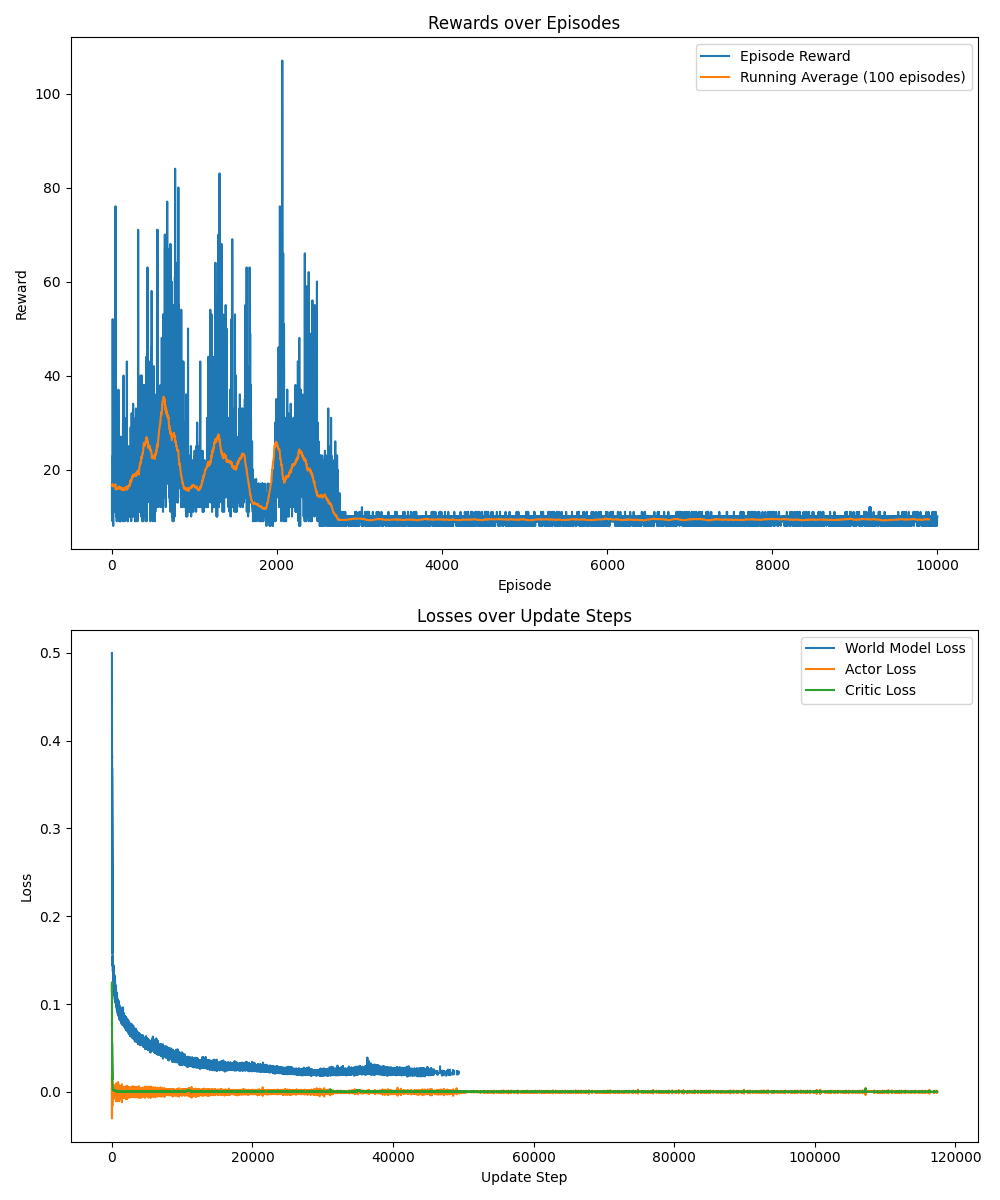
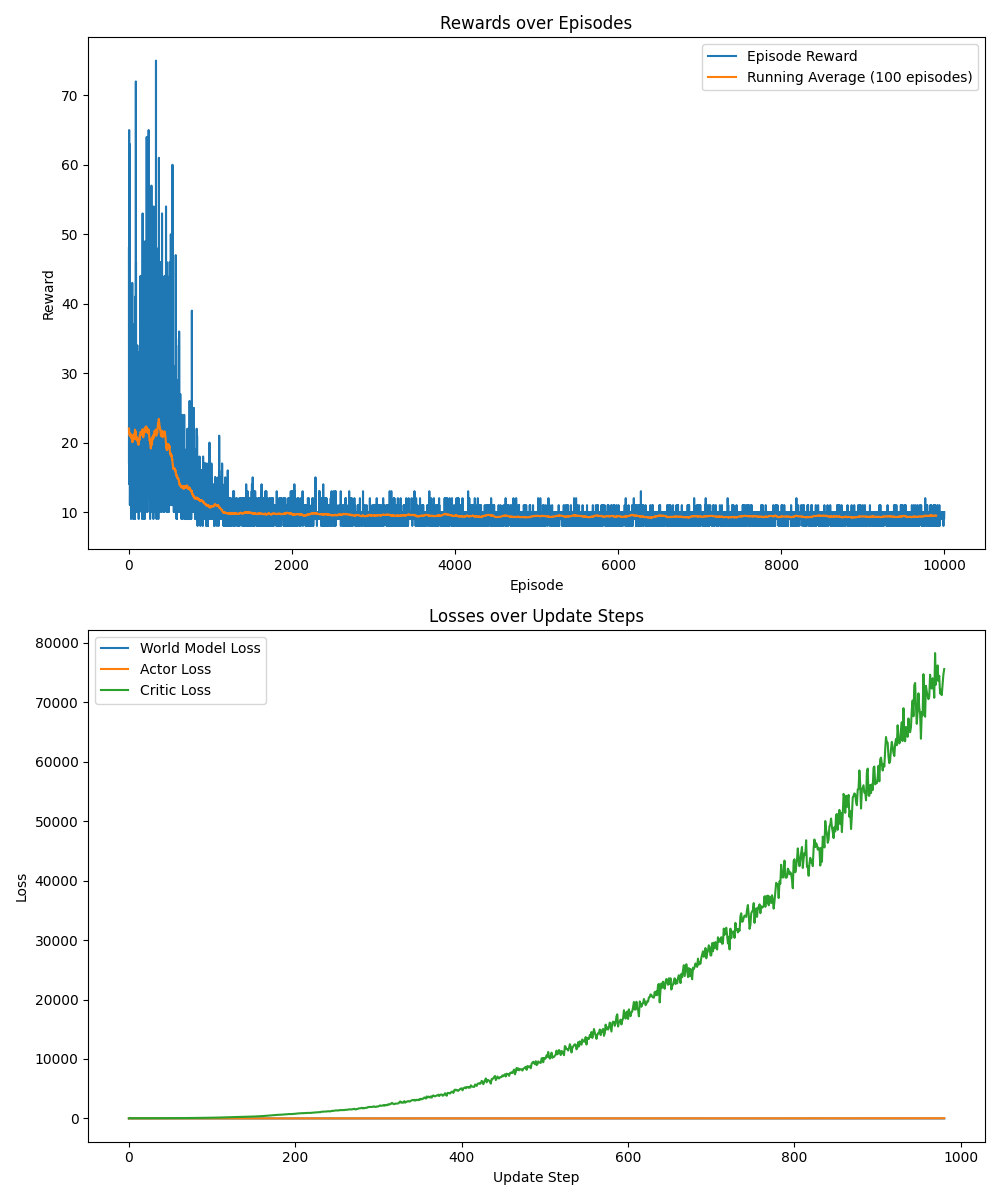
adding simple tests, fixing model updates

diff --git a/dreamer.py b/dreamer.py
@@ -54,19 +54,34 @@ class DreamerV3:
             self.obs_normalizer = ObsNormalizer(obs_shape)
 
     def init_weights(self, m):
-        if isinstance(m, (nn.Linear, nn.Conv2d, nn.ConvTranspose2d)):
-            fan_in = m.weight.shape[1]
-            fan_out = m.weight.shape[0]
-            limit = np.sqrt(6 / (fan_in + fan_out))
-            nn.init.uniform_(m.weight, -limit, limit)
-            if m.bias is not None:
-                nn.init.zeros_(m.bias)
-        elif isinstance(m, nn.GRUCell):
-            for name, param in m.named_parameters():
-                if 'weight' in name:
-                    nn.init.orthogonal_(param)
-                elif 'bias' in name:
-                    nn.init.zeros_(param)
+
+        if isinstance(m, nn.Linear):
+            in_num = m.in_features
+            out_num = m.out_features
+            denoms = (in_num + out_num) / 2.0
+            scale = 1.0 / denoms
+            std = np.sqrt(scale) / 0.87962566103423978
+            nn.init.trunc_normal_(
+                m.weight.data, mean=0.0, std=std, a=-2.0 * std, b=2.0 * std
+            )
+            if hasattr(m.bias, "data"):
+                m.bias.data.fill_(0.0)
+        elif isinstance(m, nn.Conv2d) or isinstance(m, nn.ConvTranspose2d):
+            space = m.kernel_size[0] * m.kernel_size[1]
+            in_num = space * m.in_channels
+            out_num = space * m.out_channels
+            denoms = (in_num + out_num) / 2.0
+            scale = 1.0 / denoms
+            std = np.sqrt(scale) / 0.87962566103423978
+            nn.init.trunc_normal_(
+                m.weight.data, mean=0.0, std=std, a=-2.0 * std, b=2.0 * std
+            )
+            if hasattr(m.bias, "data"):
+                m.bias.data.fill_(0.0)
+        elif isinstance(m, nn.LayerNorm):
+            m.weight.data.fill_(1.0)
+            if hasattr(m.bias, "data"):
+                m.bias.data.fill_(0.0)
 
     def reset_hidden_states(self):
         self.h = torch.zeros(1, 1, self.config.hidden_dim, device=device)
@@ -79,11 +94,12 @@ class DreamerV3:
         except ValueError:
             return  # Not enough data to train
 
-        obs_seq, act_seq, rew_seq, _, _ = batch
+        obs_seq, act_seq, rew_seq, next_obs_seq, done_seq = batch
 
         outputs = self.world_model(obs_seq, act_seq, tau=self.temperature)
         recon_obs = outputs["recon_obs"]
         pred_reward = outputs["pred_reward"]
+        pred_discount = outputs["pred_discount"]
         kl_loss = outputs["kl_loss"]
 
         # Reconstruction loss
@@ -100,8 +116,13 @@ class DreamerV3:
         reward_loss = F.mse_loss(pred_reward, symlog(rew_seq), reduction='none')
         reward_loss = reward_loss.mean()
 
+        # Discount prediction loss
+        discount_target = (1.0 - done_seq.float()) * self.config.lambda_
+        discount_loss = F.binary_cross_entropy(pred_discount, discount_target, reduction='none')
+        discount_loss = discount_loss.mean()
+
         # Total loss
-        loss_world = recon_loss + reward_loss + self.config.kl_scale * kl_loss
+        loss_world = recon_loss + reward_loss + discount_loss + self.config.kl_scale * kl_loss
 
         self.world_optimizer.zero_grad()
         loss_world.backward()
@@ -120,13 +141,13 @@ class DreamerV3:
         obs_seq, act_seq, _, _, _ = batch
         obs = obs_seq[:, 0]
 
-        # Initialize hidden state with zeros
-        imag_h = torch.zeros(1, self.config.batch_size, self.config.hidden_dim, device=device)
-
         # Encode observation
         obs_encoded = self.world_model.obs_encoder(obs)
 
-        # Initialize imag_s with posterior sample from initial obs
+        # Initialize hidden state
+        imag_h = torch.zeros(1, self.config.batch_size, self.config.hidden_dim, device=device)
+
+        # Compute initial posterior state
         posterior_input = torch.cat([imag_h.squeeze(0), obs_encoded], dim=-1)
         posterior_logits = self.world_model.posterior_net(posterior_input)
         posterior_logits = posterior_logits.view(
@@ -136,6 +157,7 @@ class DreamerV3:
 
         imag_states = []
         imag_rewards = []
+        imag_discounts = []
         imag_action_log_probs = []
 
         for _ in range(self.config.imagination_horizon):
@@ -149,7 +171,7 @@ class DreamerV3:
 
             # Update imag_h and imag_s using the world model
             act_onehot = F.one_hot(imag_action, num_classes=self.act_dim).float()
-            rnn_input = torch.cat([imag_s.detach(), act_onehot], dim=-1)
+            rnn_input = torch.cat([imag_s, act_onehot], dim=-1)
             rnn_input = rnn_input.unsqueeze(1)  # Shape: [batch_size, 1, input_size]
 
             # RNN step
@@ -162,32 +184,42 @@ class DreamerV3:
             )
             imag_s = gumbel_softmax(prior_logits, tau=self.temperature, hard=False).view(self.config.batch_size, -1)
 
-            # Predict reward
+            # Predict reward and discount
             decoder_input = torch.cat([imag_h.squeeze(0), imag_s], dim=-1)
             pred_reward = self.world_model.reward_decoder(decoder_input)
-            pred_reward = symexp(pred_reward.squeeze(-1))
+            pred_reward = pred_reward.squeeze(-1)
             imag_rewards.append(pred_reward)
 
+            pred_discount = self.world_model.discount_decoder(decoder_input)
+            pred_discount = pred_discount.squeeze(-1)
+            imag_discounts.append(pred_discount * self.config.lambda_)
+
         # Convert lists to tensors
-        imag_states = torch.stack(imag_states)
-        imag_rewards = torch.stack(imag_rewards)
-        imag_action_log_probs = torch.stack(imag_action_log_probs)
+        imag_states = torch.stack(imag_states)  # Shape: [imagination_horizon, batch_size, hidden_dim]
+        imag_rewards = torch.stack(imag_rewards)  # Shape: [imagination_horizon, batch_size]
+        imag_discounts = torch.stack(imag_discounts)  # Shape: [imagination_horizon, batch_size]
+        imag_action_log_probs = torch.stack(imag_action_log_probs)  # Shape: [imagination_horizon, batch_size]
 
         # Reshape imag_states for critic input
         imag_states_flat = imag_states.view(-1, self.config.hidden_dim)
 
         # Get value estimates for critic update (detach to prevent backprop through the world model)
         value_pred = self.critic(imag_states_flat.detach()).view(self.config.imagination_horizon, self.config.batch_size)
+        self.q_values = value_pred[0, :].detach().cpu().numpy()  # Save for logging
 
-        # Calculate lambda-returns
-        lambda_returns = torch.zeros_like(imag_rewards)
-        last_value = value_pred[-1]
-        for t in reversed(range(self.config.imagination_horizon)):
-            if t == self.config.imagination_horizon - 1:
-                bootstrap = last_value
-            else:
-                bootstrap = (1 - self.config.lambda_) * value_pred[t + 1] + self.config.lambda_ * lambda_returns[t + 1]
-            lambda_returns[t] = imag_rewards[t] + self.config.gamma * bootstrap
+        # Bootstrap value is the last value prediction
+        bootstrap = value_pred[-1]
+
+        # Compute lambda returns
+        lambda_returns = self.lambda_return(
+            reward=imag_rewards,
+            value=value_pred,
+            pcont=imag_discounts,
+            bootstrap=bootstrap,
+            lambda_=self.config.lambda_,
+        )
+
+        self.returns = lambda_returns[0, :].detach().cpu().numpy()  # Save for logging
 
         # Critic update
         value_target = lambda_returns.detach()
@@ -216,10 +248,28 @@ class DreamerV3:
         torch.nn.utils.clip_grad_norm_(self.actor.parameters(), self.config.max_grad_norm)
         self.actor_optimizer.step()
 
-        # Update target critic
+        # Update target critic using soft update
         self._soft_update(self.target_critic, self.critic)
 
         return actor_loss.item(), critic_loss.item()
+
+    def lambda_return(self, reward, value, pcont, bootstrap, lambda_):
+        next_values = torch.cat([value[1:], bootstrap[None]], 0)
+        inputs = reward + pcont * next_values * (1 - lambda_)
+        returns = self._static_scan(
+            lambda agg, cur0, cur1: cur0 + cur1 * lambda_ * agg, (inputs, pcont), bootstrap
+        )
+        return returns
+
+    def _static_scan(self, fn, inputs, start):
+        last = start
+        outputs = []
+        for index in reversed(range(inputs[0].shape[0])):
+            inp = [input[index] for input in inputs]
+            last = fn(last, *inp)
+            outputs.append(last)
+        outputs = torch.stack(outputs[::-1], dim=0)
+        return outputs
 
     def _soft_update(self, target, source, tau=None):
         if tau is None:

diff --git a/tests.py b/tests.py
@@ -1,0 +1,61 @@
+import debugrl as drl 
+from dreamer import DreamerV3
+from tqdm import tqdm
+
+def test_value_estimation(config):
+    env = drl.OneActionZeroObsEnv()
+    agent = DreamerV3(env.observation_space.shape, env.action_space.n, False, config)
+
+    with tqdm(total=config.episodes, desc="Testing Value Estimation", unit="ep") as pbar:
+        for _ in range(config.episodes):
+            obs = env.reset()
+            agent.act(obs, reset=True) 
+            done = False
+            while not done:
+                action = agent.act(obs)
+                next_obs, reward, done, _ = env.step(action)
+                agent.store_transition(obs, action, reward, next_obs, done)
+                obs = next_obs
+
+                if len(agent.replay_buffer) > config.min_buffer_size:
+                    losses = agent.train(num_updates=1)
+                    pbar.set_postfix({"Avg. Q Value": f"{agent.q_values[-1].mean():.2f}", 
+                                      "Critic Loss": f"{losses['critic_loss']:.2f}"})
+                pbar.update(1)
+
+    print(agent.q_values[-1])
+    print(agent.returns[-1])
+
+if __name__ == "__main__":
+    import argparse
+    parser = argparse.ArgumentParser()
+    parser.add_argument("--episodes", type=int, default=1000)
+    parser.add_argument("--train_horizon", type=int, default=1)
+    parser.add_argument("--latent_dim", type=int, default=32)
+    parser.add_argument("--latent_categories", type=int, default=32)
+    parser.add_argument("--hidden_dim", type=int, default=512)
+    parser.add_argument("--actor_lr", type=float, default=1e-3)
+    parser.add_argument("--critic_lr", type=float, default=1e-3)
+    parser.add_argument("--world_lr", type=float, default=1e-3)
+    parser.add_argument("--gamma", type=float, default=0.99)
+    parser.add_argument("--imagination_horizon", type=int, default=15)
+    parser.add_argument("--free_nats", type=float, default=3.0)
+    parser.add_argument("--batch_size", type=int, default=32)
+    parser.add_argument("--seq_len", type=int, default=50)
+    parser.add_argument("--replay_buffer_capacity", type=int, default=100000)
+    parser.add_argument("--entropy_scale", type=float, default=1e-3)
+    parser.add_argument("--kl_balance_alpha", type=float, default=0.8)
+    parser.add_argument("--lambda_", type=float, default=0.95)
+    parser.add_argument("--max_grad_norm", type=float, default=100.0)
+    parser.add_argument("--weight_decay", type=float, default=1e-6)
+    parser.add_argument("--num_updates", type=int, default=5)
+    parser.add_argument("--min_buffer_size", type=int, default=100)
+    parser.add_argument("--init_temperature", type=float, default=1.0)
+    parser.add_argument("--temperature_decay", type=float, default=0.999)
+    parser.add_argument("--min_temperature", type=float, default=0.2)
+    parser.add_argument("--actor_temperature", type=float, default=1.0)
+    parser.add_argument("--tau", type=float, default=0.005)
+    parser.add_argument("--kl_scale", type=float, default=1.0)
+    args = parser.parse_args()
+
+    test_value_estimation(args)

diff --git a/networks.py b/networks.py
@@ -1,4 +1,3 @@
-# Convolutional Encoder for Image Observations
 import torch.nn as nn
 import torch.nn.functional as F
 import torch
@@ -123,6 +122,12 @@ class WorldModel(nn.Module):
             nn.ReLU(),
             nn.Linear(config.hidden_dim, 1),
         )
+        self.discount_decoder = nn.Sequential(
+            nn.Linear(config.hidden_dim + config.latent_dim * config.latent_categories, config.hidden_dim),
+            nn.ReLU(),
+            nn.Linear(config.hidden_dim, 1),
+            nn.Sigmoid(),  # Output between 0 and 1
+        )
 
     def forward(self, obs_seq, act_seq, tau):
         batch_size, seq_len = obs_seq.size(0), obs_seq.size(1)
@@ -181,7 +186,7 @@ class WorldModel(nn.Module):
         # Compute KL divergence
         kl_loss = self.compute_kl_loss(prior_logits, posterior_logits)
 
-        # Decode observation and reward
+        # Decode observation, reward, and discount
         decoder_input = torch.cat([h_seq, posterior_samples], dim=-1)  # [batch_size, seq_len, hidden_dim + latent_dim * latent_categories]
         decoder_input_flat = decoder_input.view(batch_size * seq_len, -1)
 
@@ -195,9 +200,13 @@ class WorldModel(nn.Module):
         pred_reward = self.reward_decoder(decoder_input_flat)
         pred_reward = pred_reward.view(batch_size, seq_len)
 
+        pred_discount = self.discount_decoder(decoder_input_flat)
+        pred_discount = pred_discount.view(batch_size, seq_len)
+
         outputs = {
             "recon_obs": recon_obs,
             "pred_reward": pred_reward,
+            "pred_discount": pred_discount,
             "kl_loss": kl_loss,
             "rnn_h": h_seq,
             "posterior_sample": posterior_samples,

diff --git a/main.py b/main.py
@@ -161,7 +161,7 @@ if __name__ == "__main__":
     parser = argparse.ArgumentParser()
     parser.add_argument("--env", type=str, default="CartPole-v1")
     parser.add_argument("--episodes", type=int, default=10000)
-    parser.add_argument("--train_horizon", type=int, default=1)
+    parser.add_argument("--train_horizon", type=int, default=1000)
     parser.add_argument("--latent_dim", type=int, default=32)
     parser.add_argument("--latent_categories", type=int, default=32)
     parser.add_argument("--hidden_dim", type=int, default=512)
@@ -177,13 +177,13 @@ if __name__ == "__main__":
     parser.add_argument("--entropy_scale", type=float, default=1e-3)
     parser.add_argument("--kl_balance_alpha", type=float, default=0.8)
     parser.add_argument("--lambda_", type=float, default=0.95)
-    parser.add_argument("--max_grad_norm", type=float, default=1000.0)
+    parser.add_argument("--max_grad_norm", type=float, default=100.0)
     parser.add_argument("--weight_decay", type=float, default=1e-6)
     parser.add_argument("--num_updates", type=int, default=5)
     parser.add_argument("--min_buffer_size", type=int, default=5000)
     parser.add_argument("--init_temperature", type=float, default=1.0)
     parser.add_argument("--temperature_decay", type=float, default=0.999)
-    parser.add_argument("--min_temperature", type=float, default=0.5)
+    parser.add_argument("--min_temperature", type=float, default=0.2)
     parser.add_argument("--actor_temperature", type=float, default=1.0)
     parser.add_argument("--tau", type=float, default=0.005)
     parser.add_argument("--kl_scale", type=float, default=1.0)
